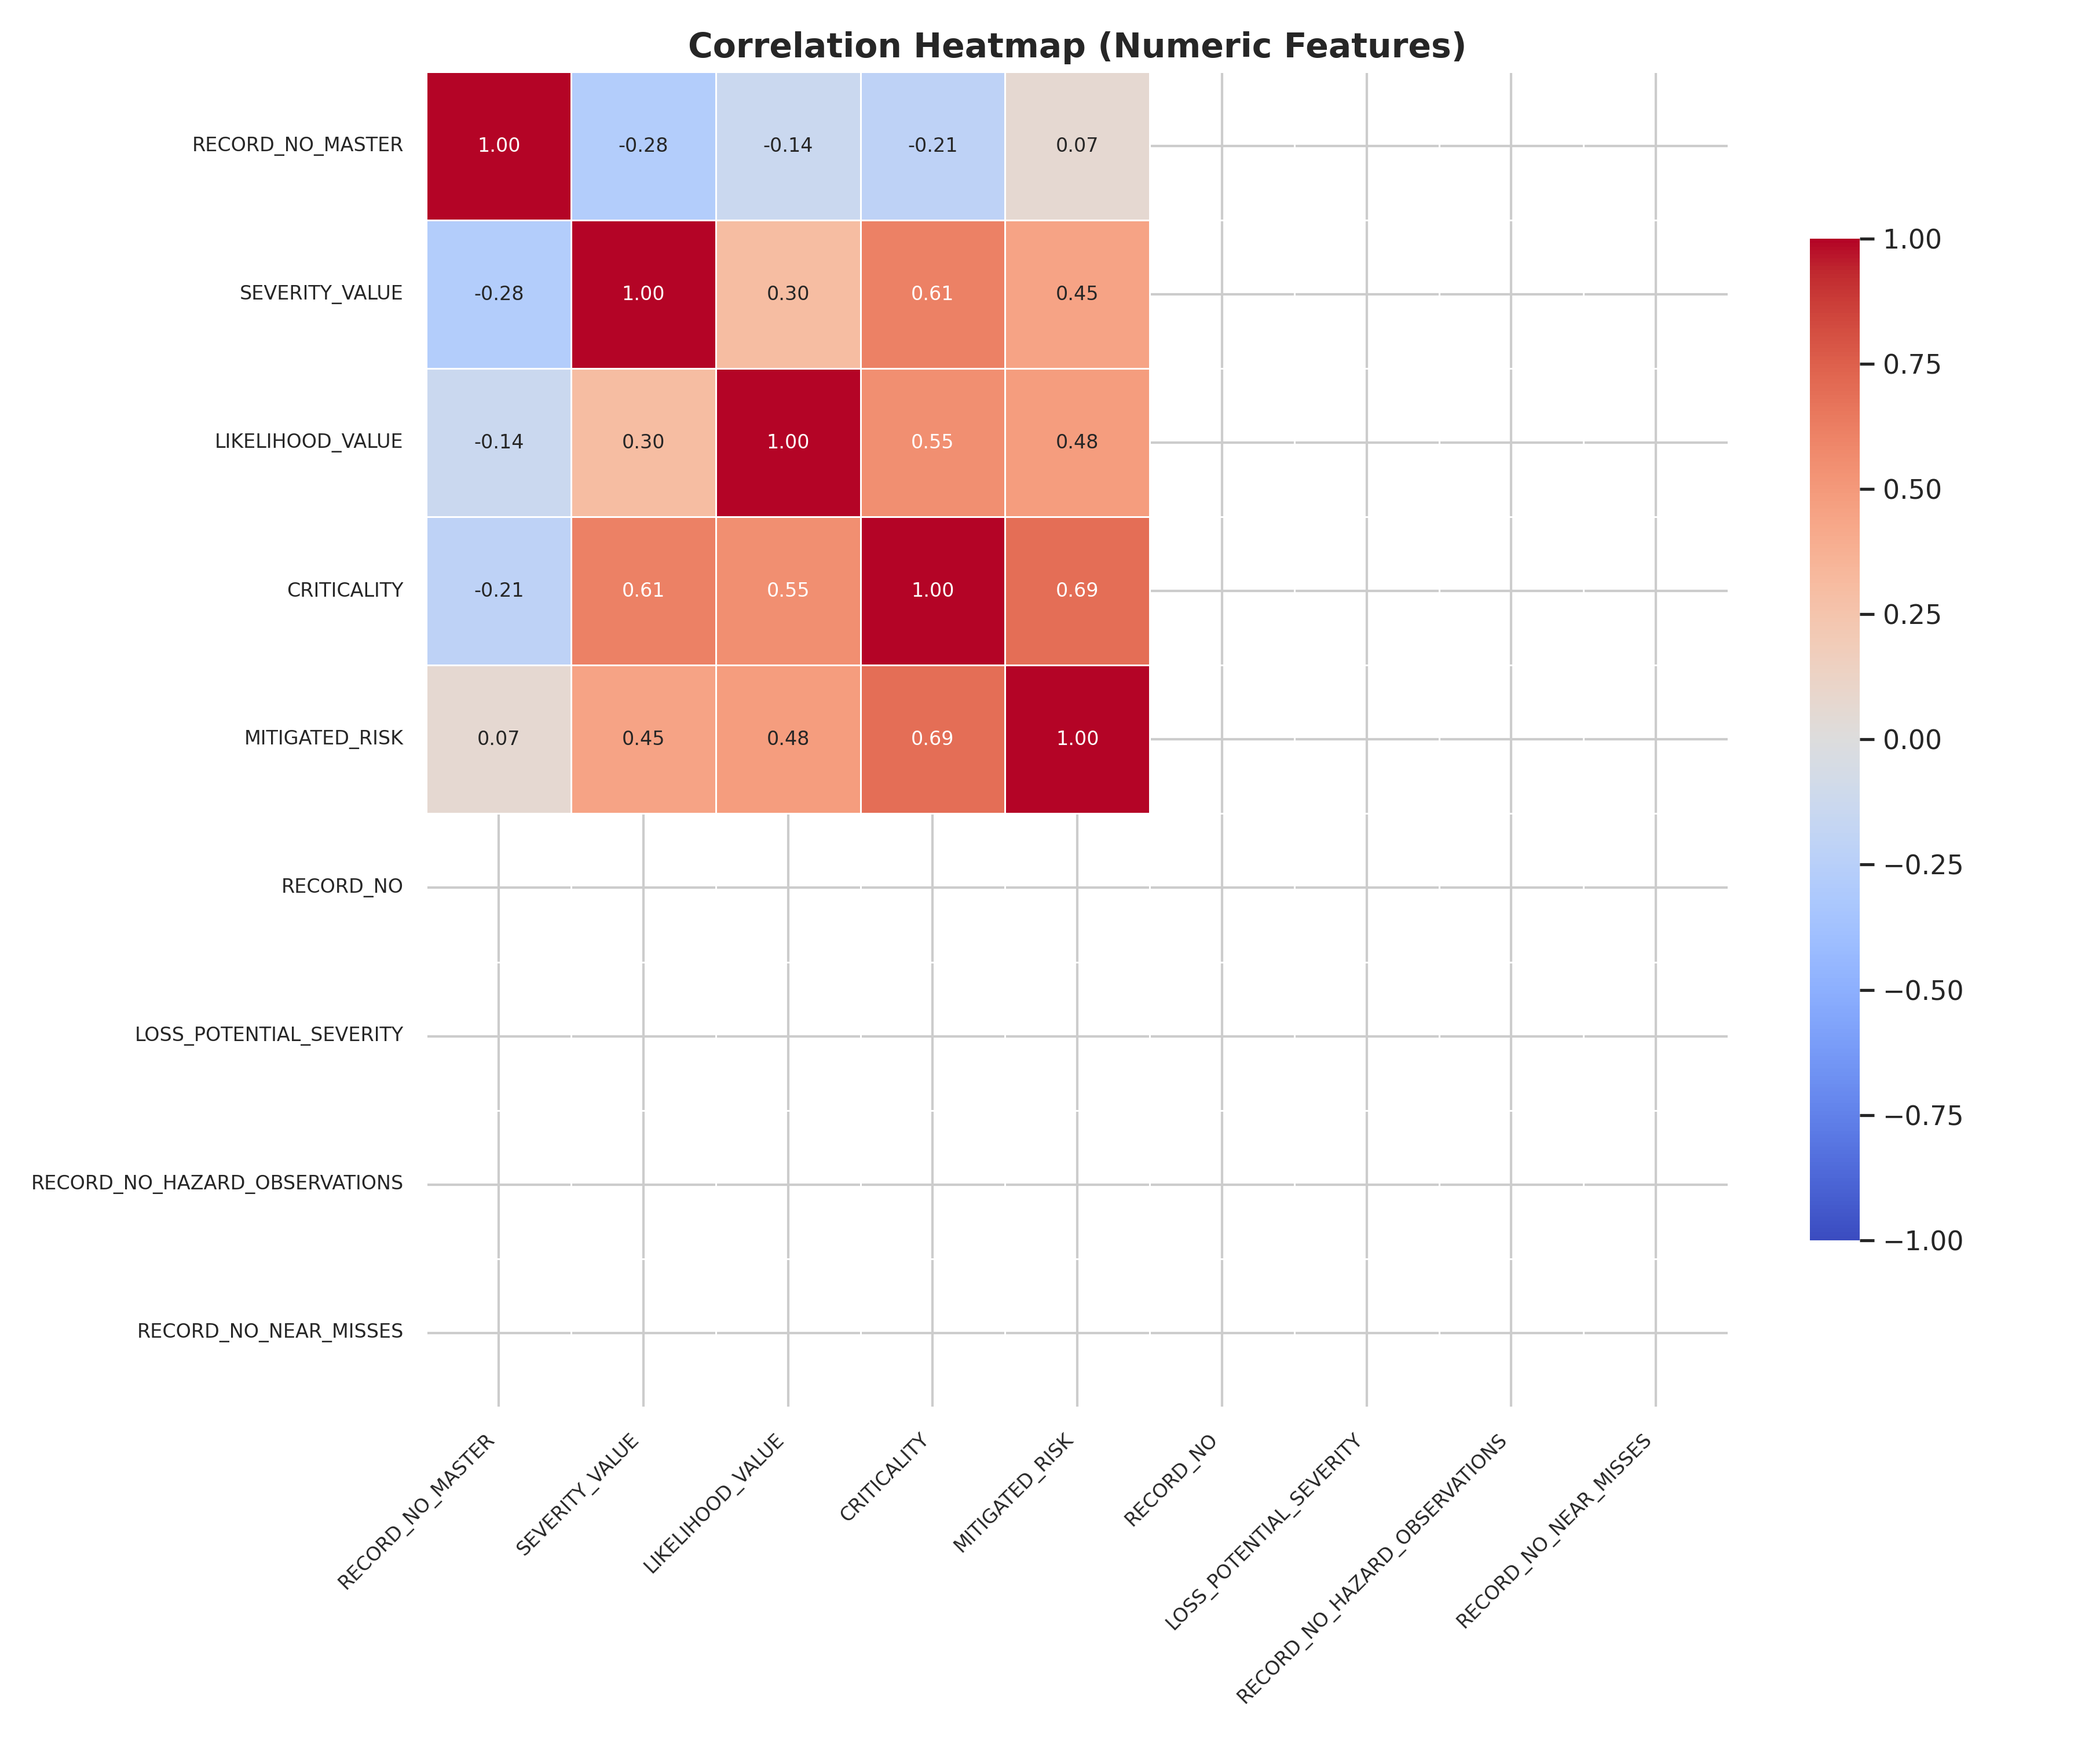
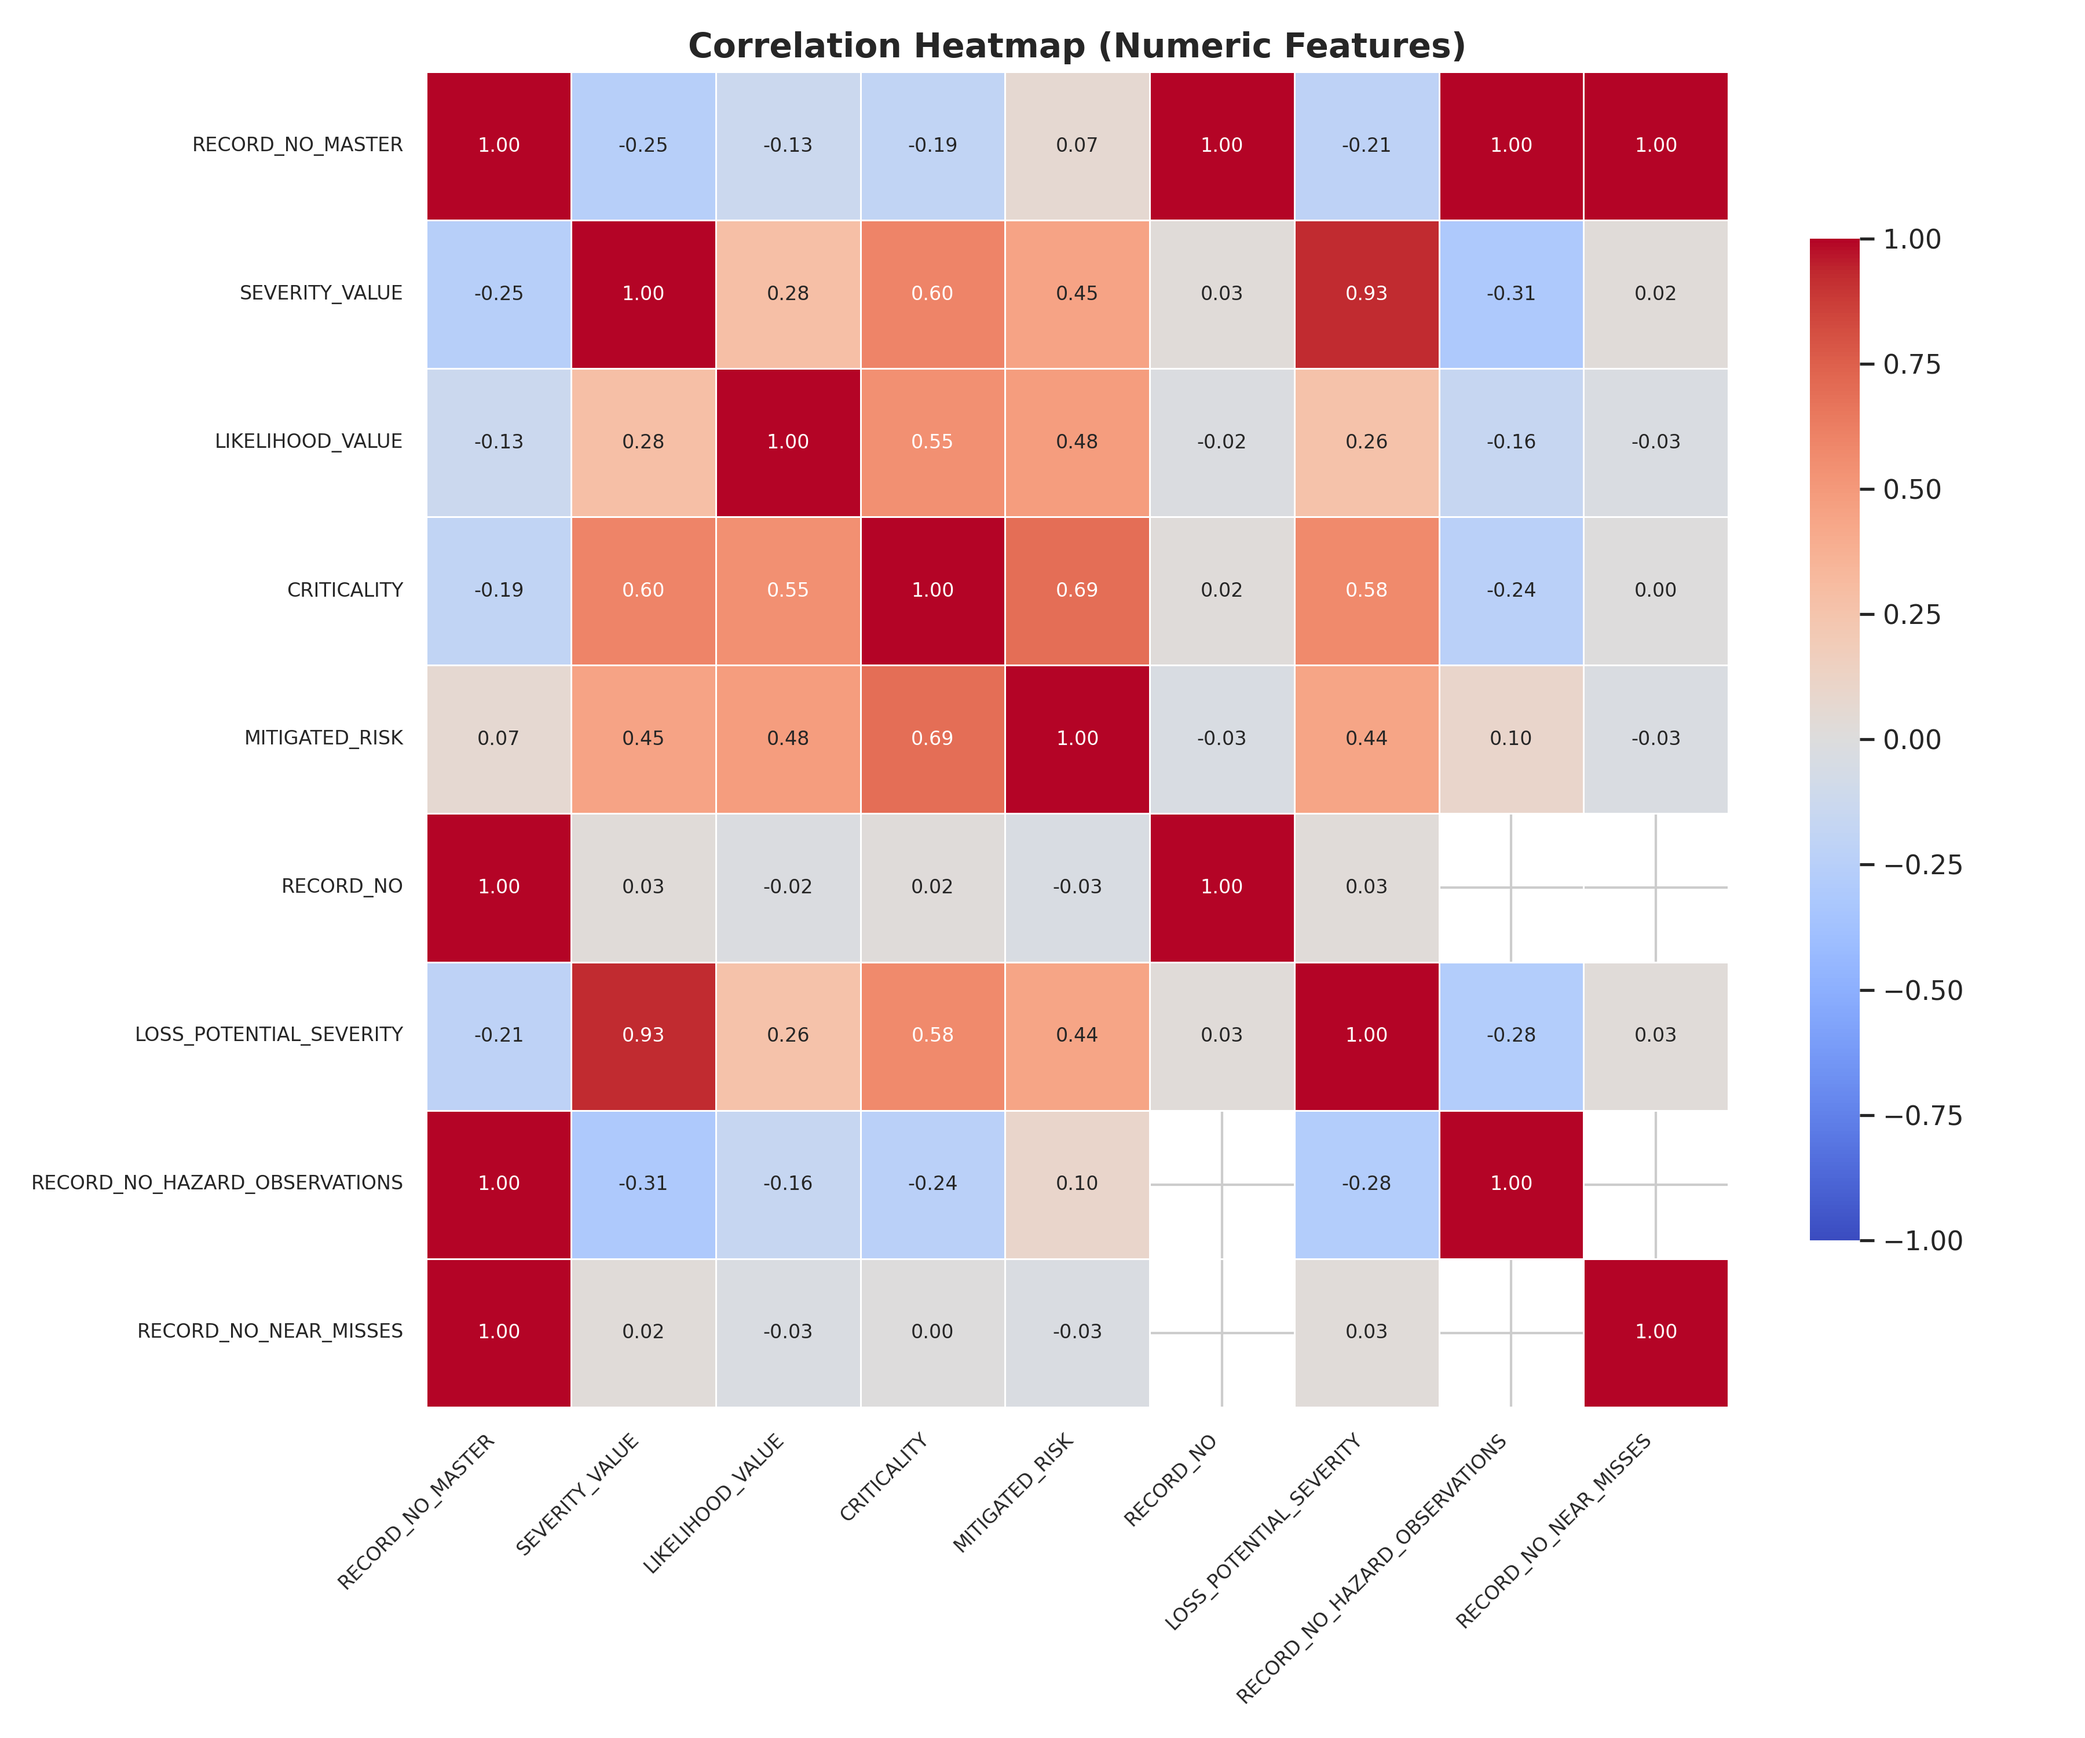
Data Coalescing Fixed!

Changed region(s): [[0.1867, 0.031, 0.84, 0.837]]

diff --git a/eda/data_clean/data_loader.py b/eda/data_clean/data_loader.py
@@ -326,6 +326,10 @@ class DataLoader:
         BASE_FILE_RECORD = "RECORD_NO_LOSS_POTENTIAL"
         incidents = pd.read_csv(self._file_path(BASE_FILE), low_memory = False)
         incidents[BASE_FILE_RECORD] = incidents[BASE_FILE_RECORD].astype("string").str.replace(r"\.0$", "", regex=True)
+        incidents = self.coalescer.create_mutated_key(
+            incidents, BASE_FILE_RECORD, self.coalescer.SYS_RECORD_FIELD, drop_original=False
+        )
+        main_key = f"{BASE_FILE_RECORD}_{self.coalescer.MUTATED}"
 
         if self.verbose: 
             print(f"\n{'='*70}")
@@ -344,7 +348,7 @@ class DataLoader:
 
             analysis = self.equalizer.analyze_columns(incidents, df, BASE_FILE_RECORD, BASE_FILE_RECORD, verbose=self.verbose)
             print(analysis["safe"])
-            incidents = self.coalescer.merge_and_coalescese(incidents, df, BASE_FILE_RECORD, BASE_FILE_RECORD, file_name, analysis["safe"],
+            incidents = self.coalescer.merge_and_coalescese(incidents, df, main_key, BASE_FILE_RECORD, file_name, analysis["safe"],
                                                         system_col= self.coalescer.SYS_RECORD_FIELD, verbose = self.verbose)
         
         # incidents = pd.concat(incident_dfs, axis= 0, ignore_index= True, sort = False)
